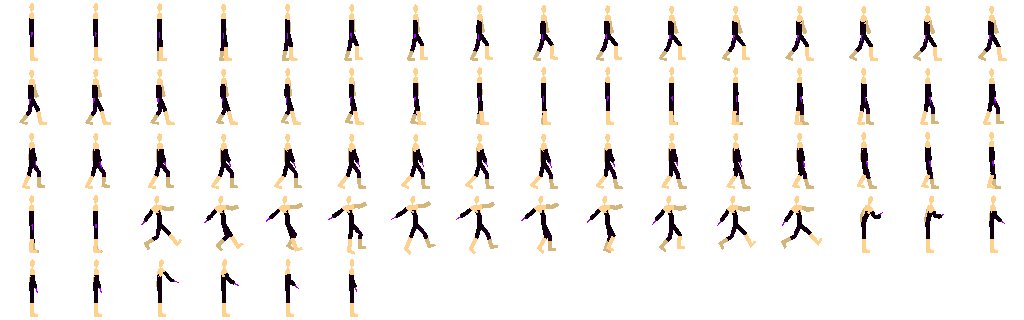
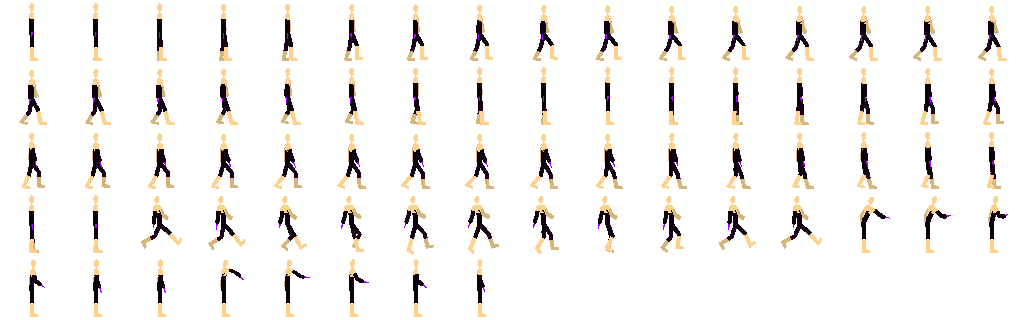
animation hopefully fixed

diff --git a/helpers.js b/helpers.js
@@ -38,9 +38,9 @@ var animationFactory = {
           images: 'george2sprites',
           animations: {
             move: ani([0, 49], 1),
-            jump: ani([49, 60], 4),
-            attack0: ani([60, 65], 2),
-            attack1: ani([65, 69], 2)
+            jump: ani([50, 60], 4),
+            attack0: ani([61, 65], 2),
+            attack1: ani([66, 69], 2)
           }
         };
         break;
